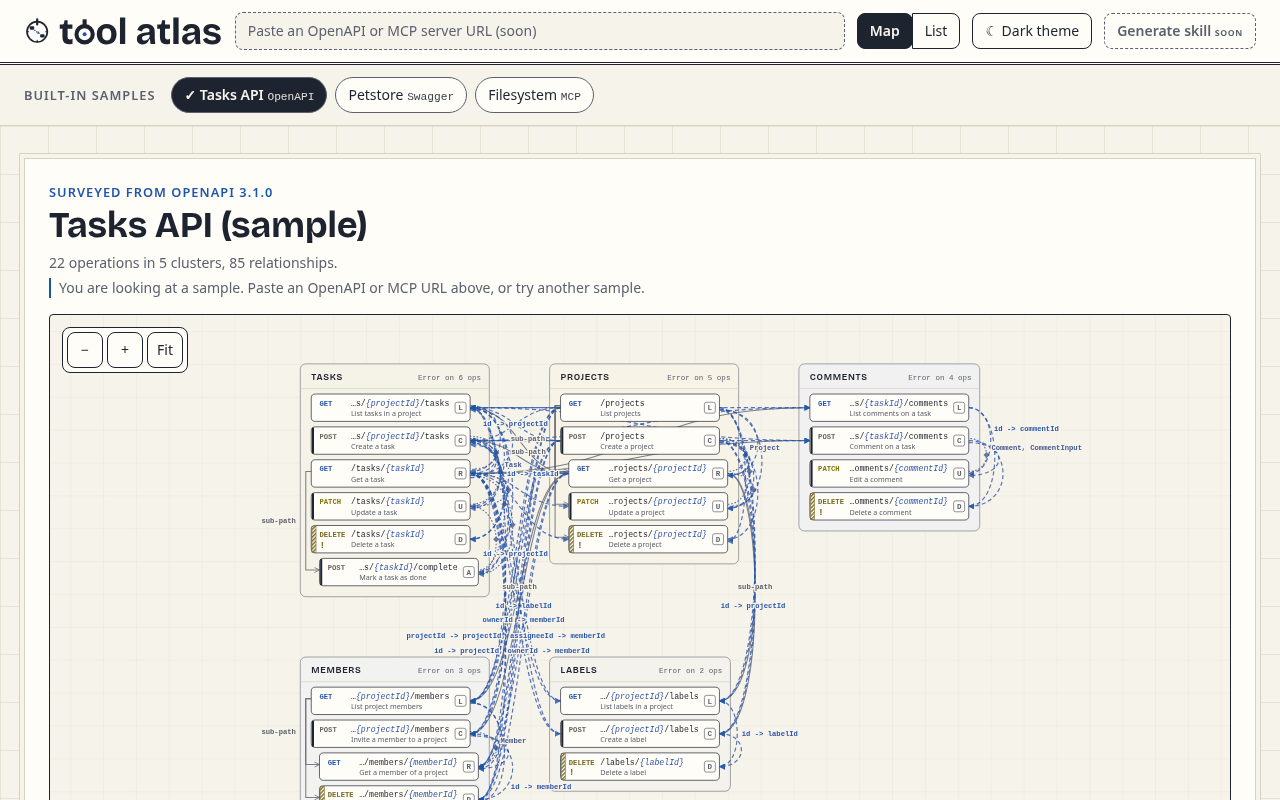
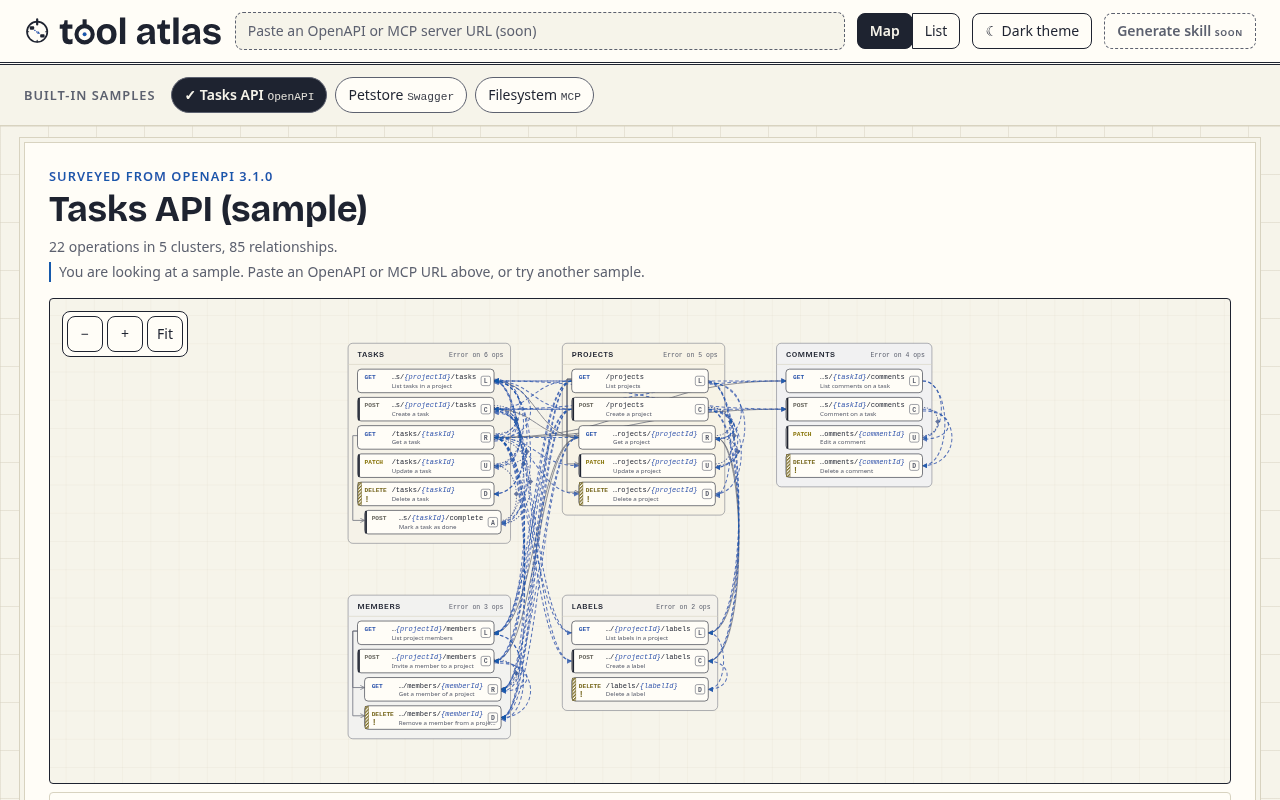
fix(map): size the map from its measured top so the fitted atlas fits the first view
The map height assumed it started at y=240 but sits at ~y=300, so the fitted
cards ended below the window at 1280x800 and 1440x900. Map.tsx now measures
the frame's page top into --map-top and app.css sizes the map as
clamp(360px, 100dvh - top - 16px, 900px); the map view's stage padding is
tightened. The phase-6 flow asserts every card ends above window.innerHeight
on first load for all three samples at 1280x800 and 1440x900.

Changed region(s): [[0.2188, 0.4375, 0.8438, 1.0], [0.0312, 0.1875, 0.5, 0.4688]]

diff --git a/src/map/Map.tsx b/src/map/Map.tsx
@@ -1,7 +1,7 @@
 // The atlas map (PLAN 5.5): pure SVG, one camera transform, survey grid, cards, edges, nodes, labels.
 // The SVG is one composite, focusable widget (zoom keys now, node navigation in phase 7, which
 // settles its role per A1/A2), so the static-element a11y lint rules are disabled on its opening tag only.
-import { type CSSProperties, type KeyboardEvent, useEffect, useMemo, useRef, useState } from 'react';
+import { type CSSProperties, type KeyboardEvent, useEffect, useLayoutEffect, useMemo, useRef, useState } from 'react';
 import { WASH } from '../design/tokens';
 import type { AtlasGraph } from '../graph';
 import { layout } from '../layout/layout';
@@ -37,6 +37,16 @@ export function AtlasMap({ model, graph }: { model: ApiModel; graph: AtlasGraph 
     setCam(fit(atlas.bounds, el.clientWidth, el.clientHeight));
   };
   const zoomBy = (f: number) => move((c) => zoomAt(c, f, frame.current!.clientWidth / 2, frame.current!.clientHeight / 2), true);
+
+  // Size the map from its real page top (header, chips and heading above it vary), so the fitted
+  // atlas fills the first view without scrolling; app.css reads --map-top.
+  useLayoutEffect(() => {
+    const el = frame.current!;
+    const measure = () => el.style.setProperty('--map-top', `${Math.round(el.getBoundingClientRect().top + window.scrollY)}px`);
+    measure();
+    window.addEventListener('resize', measure);
+    return () => window.removeEventListener('resize', measure);
+  }, []); // the map remounts per sample (keyed by model hash)
 
   // Fit on first measure (the observer reports the initial size) and on resizes until the user moves.
   useEffect(() => {

diff --git a/src/app.css b/src/app.css
@@ -86,7 +86,9 @@ h2 { margin: 0 0 var(--space-3); font-size: 1.15rem; font-weight: 650; }
 .sheet[data-view='map'] { max-width: 100rem; padding: var(--space-5); }
 .sheet[data-view='map'] .lede { margin-bottom: var(--space-4); }
 .banner { display: block; margin-top: var(--space-1); padding-left: var(--space-2); border-left: 2px solid var(--meridian); }
-.map { position: relative; height: clamp(360px, calc(100vh - 240px), 900px); background: var(--paper); border: 1px solid var(--ink); border-radius: var(--radius-sm); overflow: hidden; }
+/* Height from the map's measured page top (--map-top, set by Map.tsx), leaving a 16px margin below. */
+.stage:has(> .sheet[data-view='map']) { padding-block: var(--space-4); }
+.map { position: relative; height: clamp(360px, calc(100dvh - var(--map-top, 300px) - var(--space-4)), 900px); background: var(--paper); border: 1px solid var(--ink); border-radius: var(--radius-sm); overflow: hidden; }
 .map:has(> .atlas:focus-visible) { outline: 2px solid var(--ink); outline-offset: 2px; box-shadow: 0 0 0 6px var(--marker); }
 .atlas { display: block; width: 100%; height: 100%; touch-action: none; user-select: none; cursor: grab; }
 .atlas:focus-visible { outline: none; box-shadow: none; }
